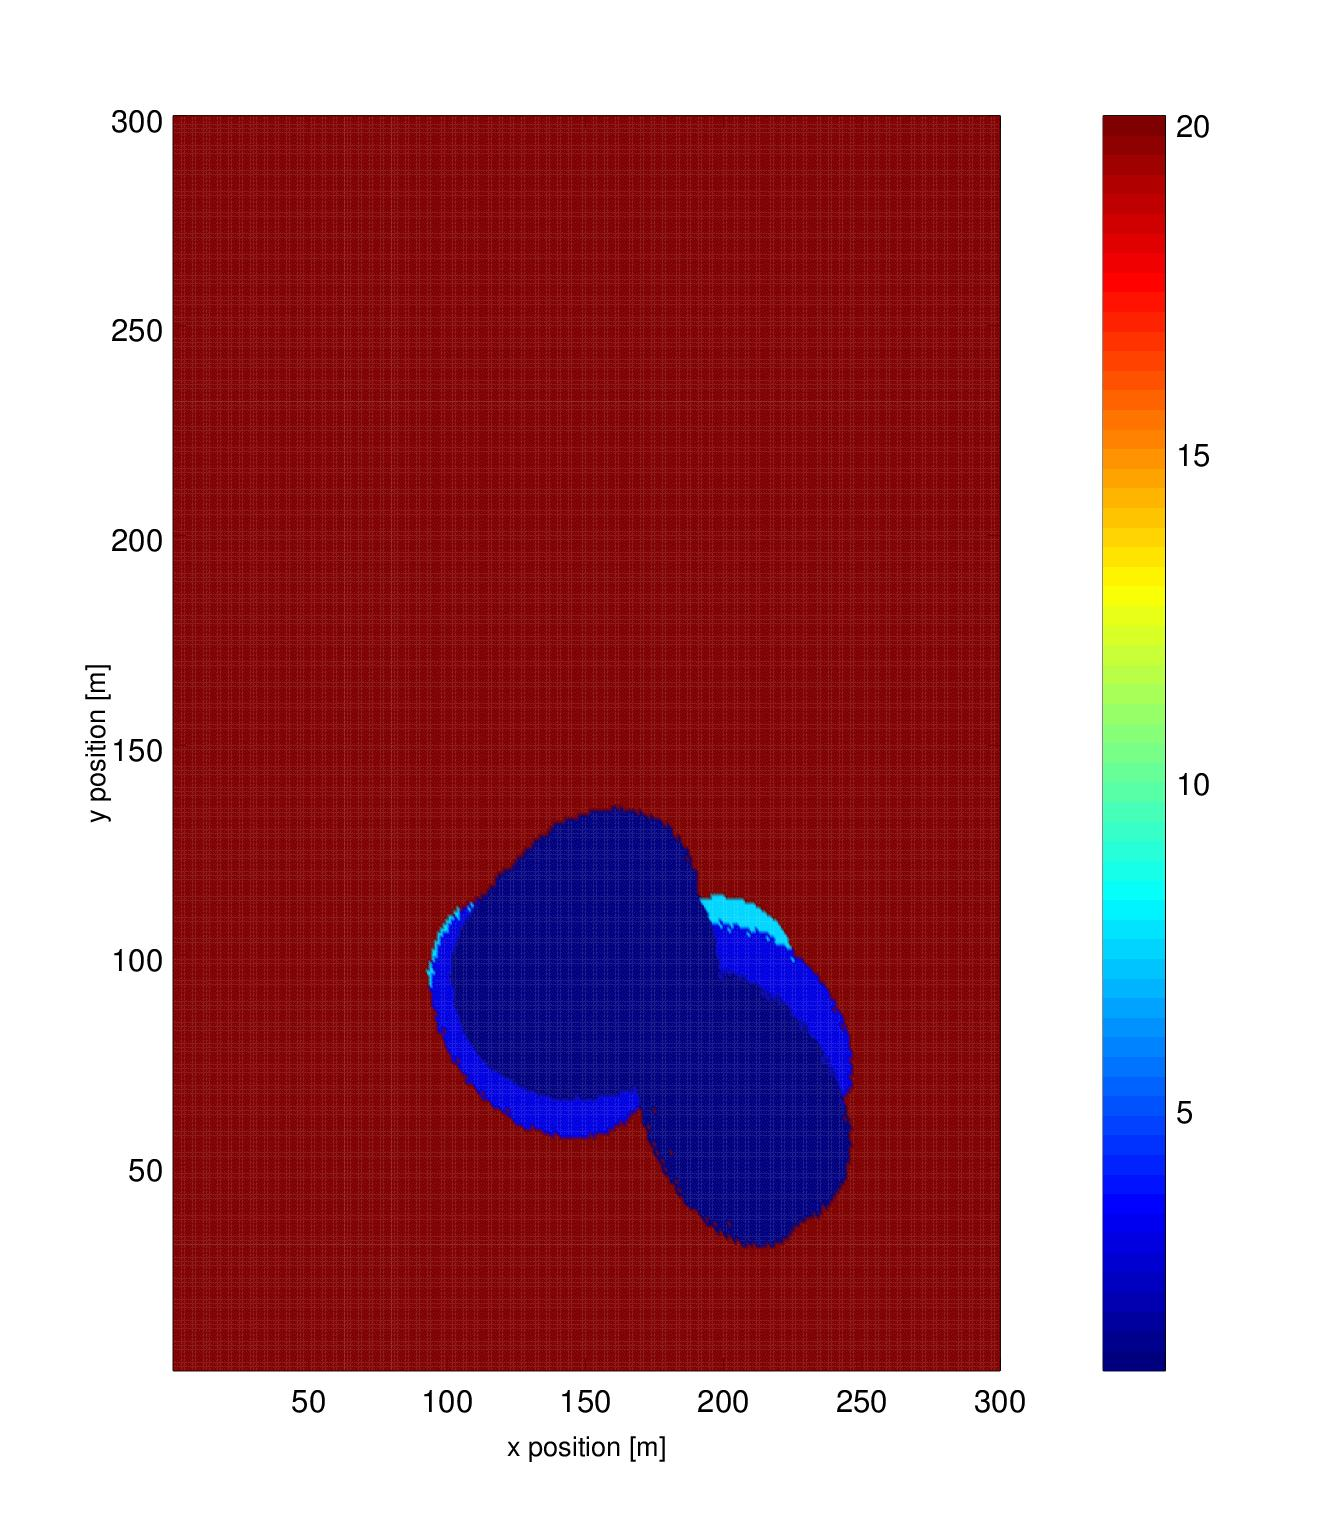
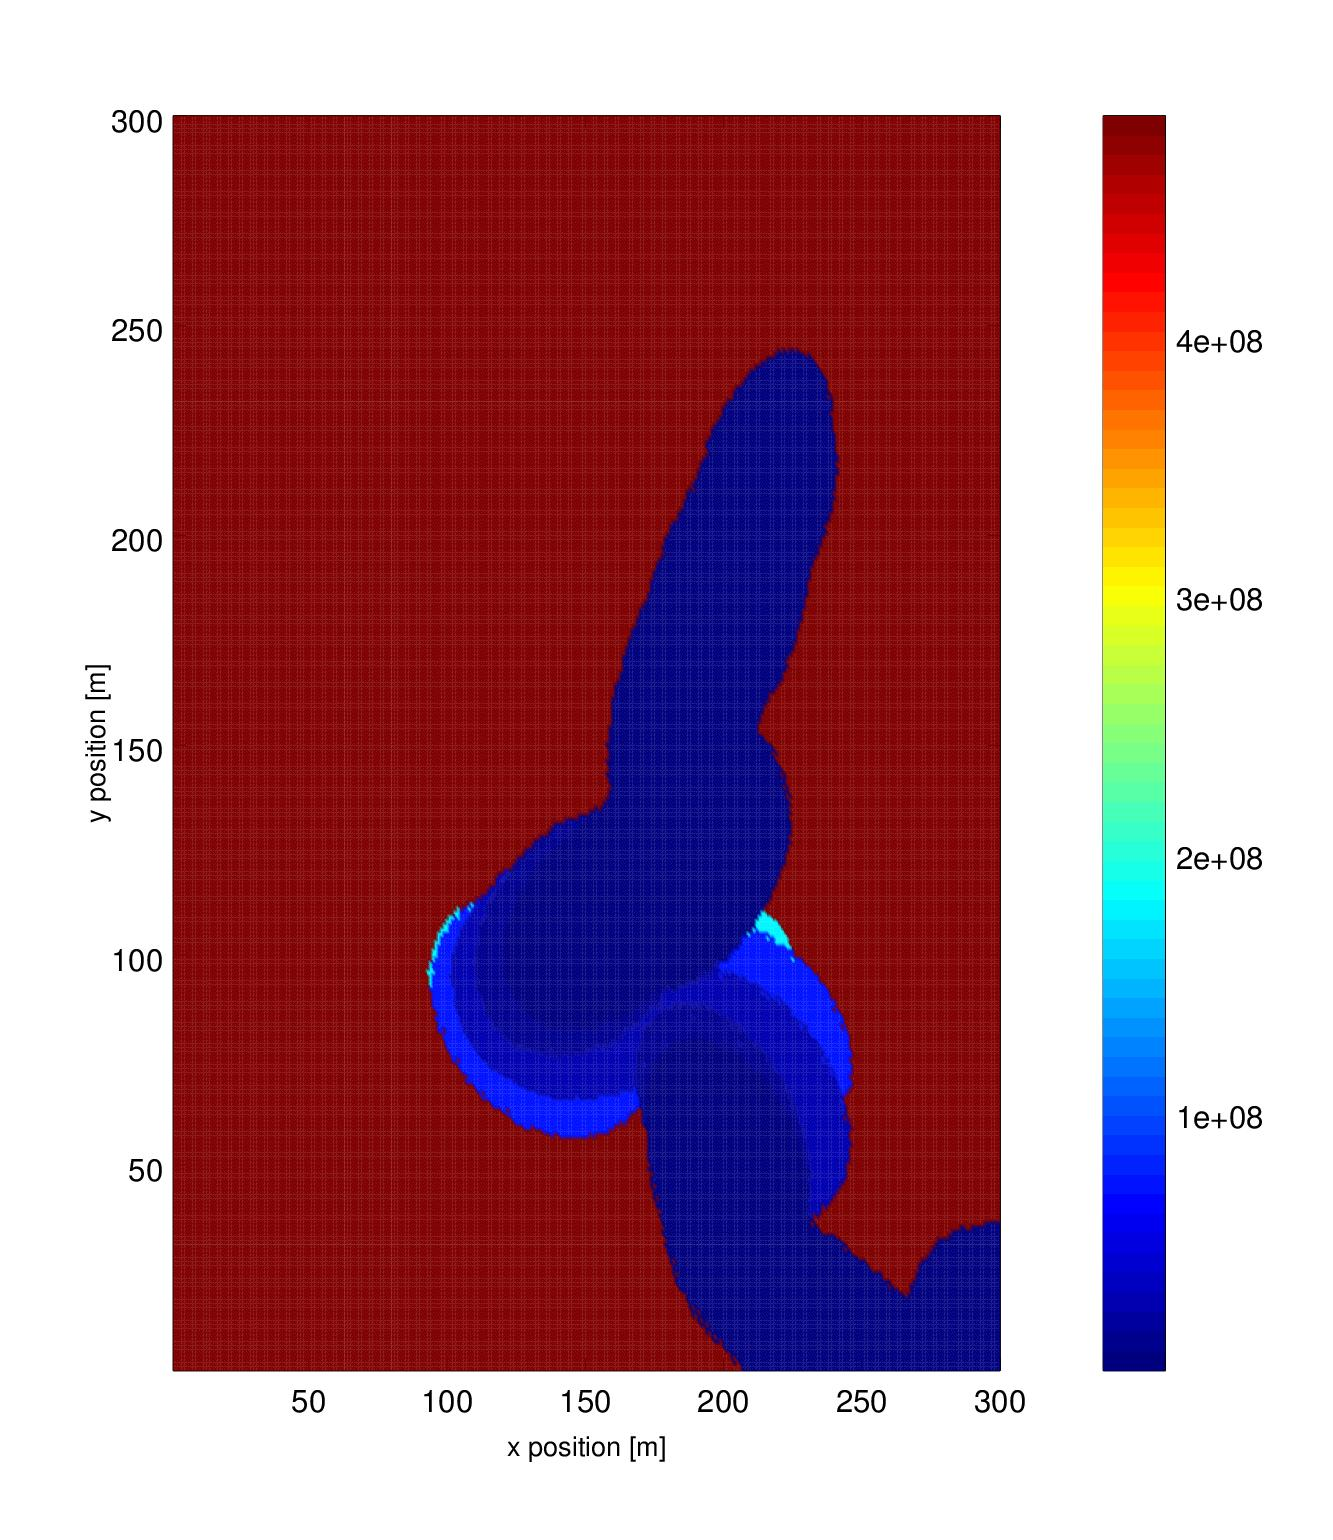
new grid figs

diff --git a/scripts/generate_verification_graphs.m b/scripts/generate_verification_graphs.m
@@ -78,7 +78,7 @@ function plot_verification(data)
     % print("sandbox/grid.png", "-dpng");
 
     k = 1;
-    for i=[1 2 3 4]
+    for i=[1 10 20 40]
         figure;
         xi = 1:300;
         yi = 1:300;
